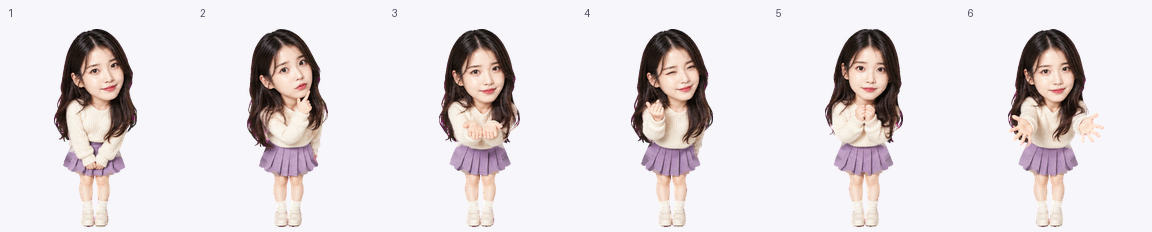
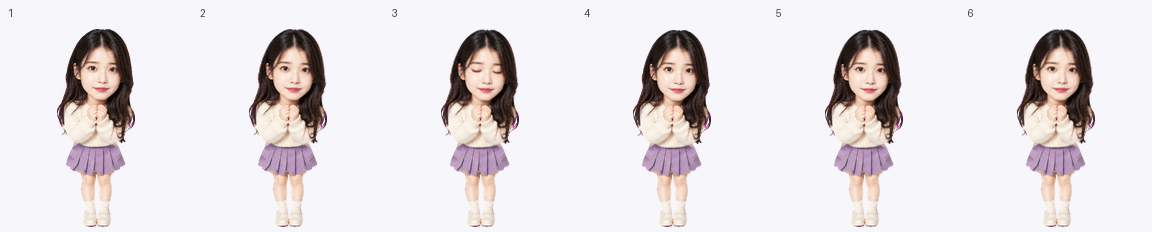
fix: refine IU walking motion and animation previews

diff --git a/examples/index.html b/examples/index.html
@@ -5,6 +5,6 @@ a:focus-visible,button:focus-visible,select:focus-visible{outline:3px solid var(
 /* Preview images have a baked-in light background; preserve their original colours. */
 
 *{box-sizing:border-box}body{margin:0;background:var(--page);color:var(--text);font:15px/1.55 -apple-system,BlinkMacSystemFont,"Segoe UI",sans-serif}main{max-width:1180px;margin:auto;padding:44px 28px 60px}header{display:flex;justify-content:space-between;align-items:end;gap:24px;margin-bottom:28px}.eyebrow{color:var(--accent);font-size:12px;letter-spacing:.14em;font-weight:650;text-transform:uppercase}h1{font-size:38px;letter-spacing:-.04em;line-height:1.15;margin:10px 0}p{color:var(--muted);margin:8px 0}.toolbar{display:flex;gap:10px;flex-wrap:wrap}button,select{font:inherit;color:var(--control-text);border:1px solid var(--control-border);background:var(--surface);border-radius:9px;padding:9px 13px}button{cursor:pointer}a{color:var(--link);text-underline-offset:3px}.grid{display:grid;grid-template-columns:repeat(3,minmax(0,1fr));gap:18px}.card{background:var(--surface);border:1px solid var(--border);border-radius:16px;overflow:hidden}.image{display:flex;justify-content:center;background:#f7f6fb;padding:12px 0}.image img{object-fit:contain;display:block}.details{padding:18px 20px 22px}h2{font-size:18px;margin:0 0 6px;letter-spacing:-.02em}.details p{min-height:46px;font-size:14px}.meta{font-size:12px;color:var(--subtle);margin:12px 0 8px}code{font:inherit}.details a{font-size:13px}.note{border-left:3px solid var(--note-border);padding:8px 16px;background:var(--note-bg);margin:0 0 24px;border-radius:0 8px 8px 0}.look{display:grid;grid-template-columns:1fr 1fr;gap:18px;margin-top:26px}.look .details p{min-height:0}footer{color:var(--subtle);font-size:12px;margin-top:30px}@media(max-width:800px){.grid{grid-template-columns:repeat(2,minmax(0,1fr))}header{align-items:start;flex-direction:column}}@media(max-width:520px){main{padding:28px 16px}.grid,.look{grid-template-columns:1fr}h1{font-size:32px}}
-</style><main><header><div><div class="eyebrow">IU Beside You · Codex pet</div><h1>Animation examples</h1><p>Nine animation states. Sixteen look directions. Every frame from the packaged pet.</p></div><div class="toolbar"><button id="toggle" type="button">Pause animations</button><a href="https://github.com/ArvinZJC/iu-beside-you-codex-pet" style="padding:9px 0">GitHub ↗</a><a href="https://gitee.com/ArvinZJC/iu-beside-you-codex-pet" style="padding:9px 0">Gitee ↗</a></div></header><section class="grid"><article class="card"><div class="image"><img src="idle.gif" data-loop="idle.gif" data-still="idle.png" width="192" height="208" alt="Resting animation"></div><div class="details"><h2>Resting</h2><p>Quiet blinking and breathing.</p><div class="meta">6 frames · slot: <code>idle</code></div><a href="idle-frames.png">View every frame ↗</a></div></article><article class="card"><div class="image"><img src="running-right.gif" data-loop="running-right.gif" data-still="running-right.png" width="192" height="208" alt="Moving right animation"></div><div class="details"><h2>Moving right</h2><p>Rightward movement with alternating steps.</p><div class="meta">8 frames · slot: <code>running-right</code></div><a href="running-right-frames.png">View every frame ↗</a></div></article><article class="card"><div class="image"><img src="running-left.gif" data-loop="running-left.gif" data-still="running-left.png" width="192" height="208" alt="Moving left animation"></div><div class="details"><h2>Moving left</h2><p>Leftward movement with alternating steps.</p><div class="meta">8 frames · slot: <code>running-left</code></div><a href="running-left-frames.png">View every frame ↗</a></div></article><article class="card"><div class="image"><img src="waving.gif" data-loop="waving.gif" data-still="waving.png" width="192" height="208" alt="Attention wave animation"></div><div class="details"><h2>Attention wave</h2><p>A short wave to attract attention.</p><div class="meta">4 frames · slot: <code>waving</code></div><a href="waving-frames.png">View every frame ↗</a></div></article><article class="card"><div class="image"><img src="jumping.gif" data-loop="jumping.gif" data-still="jumping.png" width="192" height="208" alt="Jumping animation"></div><div class="details"><h2>Jumping</h2><p>A playful jump with a crouch, lift and soft landing.</p><div class="meta">5 frames · slot: <code>jumping</code></div><a href="jumping-frames.png">View every frame ↗</a></div></article><article class="card"><div class="image"><img src="failed.gif" data-loop="failed.gif" data-still="failed.png" width="192" height="208" alt="Disappointed animation"></div><div class="details"><h2>Disappointed</h2><p>A brief disappointed reaction and recovery.</p><div class="meta">8 frames · slot: <code>failed</code></div><a href="failed-frames.png">View every frame ↗</a></div></article><article class="card"><div class="image"><img src="waiting.gif" data-loop="waiting.gif" data-still="waiting.png" width="192" height="208" alt="Waiting for you animation"></div><div class="details"><h2>Waiting for you</h2><p>An expectant pose when input is needed.</p><div class="meta">6 frames · slot: <code>waiting</code></div><a href="waiting-frames.png">View every frame ↗</a></div></article><article class="card"><div class="image"><img src="running.gif" data-loop="running.gif" data-still="running.png" width="192" height="208" alt="Thinking animation"></div><div class="details"><h2>Thinking</h2><p>Focused activity whilst a task is running.</p><div class="meta">6 frames · slot: <code>running</code></div><a href="running-frames.png">View every frame ↗</a></div></article><article class="card"><div class="image"><img src="review.gif" data-loop="review.gif" data-still="review.png" width="192" height="208" alt="Reviewing animation"></div><div class="details"><h2>Reviewing</h2><p>A thoughtful look at the result.</p><div class="meta">6 frames · slot: <code>review</code></div><a href="review-frames.png">View every frame ↗</a></div></article></section><section class="look"><article class="card"><div class="image"><img src="look-around.gif" data-loop="look-around.gif" data-still="look-00.png" width="192" height="208" alt="All sixteen look directions"></div><div class="details"><h2>Look around</h2><p>A clockwise preview of all sixteen directions.</p><div class="meta">Illustrative sweep · in the app, gaze follows the pointer</div></div></article><article class="card"><div class="image"><img id="direction" src="look-00.png" width="192" height="208" alt="Looking up"></div><div class="details"><h2>Inspect a direction</h2><p>Select any individual gaze pose at its native size.</p><label for="select">Direction </label><select id="select"><option value="0">Up</option><option value="1">Up-right · 22.5°</option><option value="2">Up-right · 45°</option><option value="3">Up-right · 67.5°</option><option value="4">Right</option><option value="5">Down-right · 112.5°</option><option value="6">Down-right · 135°</option><option value="7">Down-right · 157.5°</option><option value="8">Down</option><option value="9">Down-left · 202.5°</option><option value="10">Down-left · 225°</option><option value="11">Down-left · 247.5°</option><option value="12">Left</option><option value="13">Up-left · 292.5°</option><option value="14">Up-left · 315°</option><option value="15">Up-left · 337.5°</option></select></div></article></section><footer>Standard loops use Codex’s frame timings. Images are shown at their native 192 × 208 cell size. No audio or external resources are required.</footer></main><script>
+</style><main><header><div><div class="eyebrow">IU Beside You · Codex pet</div><h1>Animation examples</h1><p>Nine animation states. Sixteen look directions. Every frame from the packaged pet.</p></div><div class="toolbar"><button id="toggle" type="button">Pause animations</button><a href="https://github.com/ArvinZJC/iu-beside-you-codex-pet" style="padding:9px 0">GitHub ↗</a><a href="https://gitee.com/ArvinZJC/iu-beside-you-codex-pet" style="padding:9px 0">Gitee ↗</a></div></header><section class="grid"><article class="card"><div class="image"><img src="idle.gif" data-loop="idle.gif" data-still="idle.png" width="192" height="208" alt="Resting animation"></div><div class="details"><h2>Resting</h2><p>Quiet blinking and breathing.</p><div class="meta">6 frames</div><a href="idle-frames.png">View every frame ↗</a></div></article><article class="card"><div class="image"><img src="running-right.gif" data-loop="running-right.gif" data-still="running-right.png" width="192" height="208" alt="Moving right animation"></div><div class="details"><h2>Moving right</h2><p>Rightward walking with alternating steps.</p><div class="meta">8 frames</div><a href="running-right-frames.png">View every frame ↗</a></div></article><article class="card"><div class="image"><img src="running-left.gif" data-loop="running-left.gif" data-still="running-left.png" width="192" height="208" alt="Moving left animation"></div><div class="details"><h2>Moving left</h2><p>Leftward walking with alternating steps.</p><div class="meta">8 frames</div><a href="running-left-frames.png">View every frame ↗</a></div></article><article class="card"><div class="image"><img src="waving.gif" data-loop="waving.gif" data-still="waving.png" width="192" height="208" alt="Attention wave animation"></div><div class="details"><h2>Attention wave</h2><p>A short wave to attract attention.</p><div class="meta">4 frames</div><a href="waving-frames.png">View every frame ↗</a></div></article><article class="card"><div class="image"><img src="jumping.gif" data-loop="jumping.gif" data-still="jumping.png" width="192" height="208" alt="Jumping animation"></div><div class="details"><h2>Jumping</h2><p>A playful jump with a crouch, lift and soft landing.</p><div class="meta">5 frames</div><a href="jumping-frames.png">View every frame ↗</a></div></article><article class="card"><div class="image"><img src="failed.gif" data-loop="failed.gif" data-still="failed.png" width="192" height="208" alt="Disappointed animation"></div><div class="details"><h2>Disappointed</h2><p>A brief disappointed reaction and recovery.</p><div class="meta">8 frames</div><a href="failed-frames.png">View every frame ↗</a></div></article><article class="card"><div class="image"><img src="waiting.gif" data-loop="waiting.gif" data-still="waiting.png" width="192" height="208" alt="Waiting for you animation"></div><div class="details"><h2>Waiting for you</h2><p>An expectant pose when input is needed.</p><div class="meta">6 frames</div><a href="waiting-frames.png">View every frame ↗</a></div></article><article class="card"><div class="image"><img src="running.gif" data-loop="running.gif" data-still="running.png" width="192" height="208" alt="Thinking animation"></div><div class="details"><h2>Thinking</h2><p>Focused activity whilst a task is running.</p><div class="meta">6 frames</div><a href="running-frames.png">View every frame ↗</a></div></article><article class="card"><div class="image"><img src="review.gif" data-loop="review.gif" data-still="review.png" width="192" height="208" alt="Reviewing animation"></div><div class="details"><h2>Reviewing</h2><p>A thoughtful look at the result.</p><div class="meta">6 frames</div><a href="review-frames.png">View every frame ↗</a></div></article></section><section class="look"><article class="card"><div class="image"><img src="look-around.gif" data-loop="look-around.gif" data-still="look-00.png" width="192" height="208" alt="All sixteen look directions"></div><div class="details"><h2>Look around</h2><p>A clockwise preview of all sixteen directions.</p><div class="meta">Illustrative sweep · gaze is controlled by the app</div></div></article><article class="card"><div class="image"><img id="direction" src="look-00.png" width="192" height="208" alt="Looking up"></div><div class="details"><h2>Inspect a direction</h2><p>Select any individual gaze pose at its native size.</p><label for="select">Direction </label><select id="select"><option value="0">Up</option><option value="1">Up-right · 22.5°</option><option value="2">Up-right · 45°</option><option value="3">Up-right · 67.5°</option><option value="4">Right</option><option value="5">Down-right · 112.5°</option><option value="6">Down-right · 135°</option><option value="7">Down-right · 157.5°</option><option value="8">Down</option><option value="9">Down-left · 202.5°</option><option value="10">Down-left · 225°</option><option value="11">Down-left · 247.5°</option><option value="12">Left</option><option value="13">Up-left · 292.5°</option><option value="14">Up-left · 315°</option><option value="15">Up-left · 337.5°</option></select></div></article></section><footer>Standard loops use Codex’s frame timings. Images are shown at their native 192 × 208 cell size. No audio or external resources are required.</footer></main><script>
 let playing=true;const button=document.getElementById('toggle');button.onclick=()=>{playing=!playing;document.querySelectorAll('[data-loop]').forEach(img=>img.src=playing?img.dataset.loop:img.dataset.still);button.textContent=playing?'Pause animations':'Play animations'};document.getElementById('select').onchange=e=>{const image=document.getElementById('direction');image.src='look-'+String(e.target.value).padStart(2,'0')+'.png';image.alt='Looking '+e.target.selectedOptions[0].text};if(matchMedia('(prefers-reduced-motion: reduce)').matches)button.click();
 </script></html>
